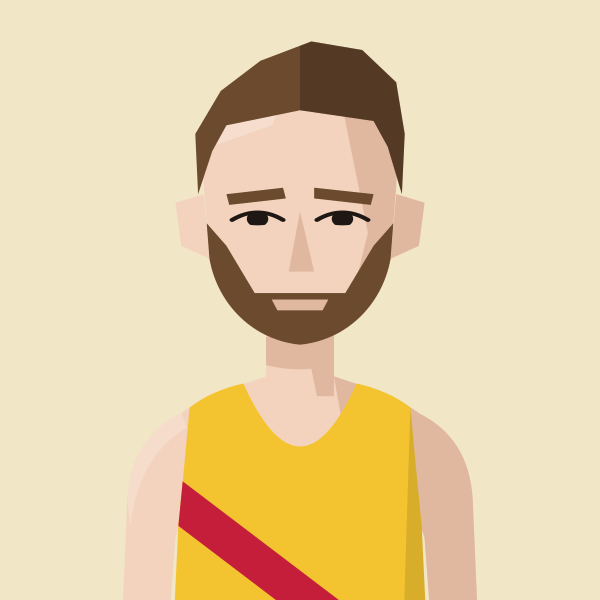
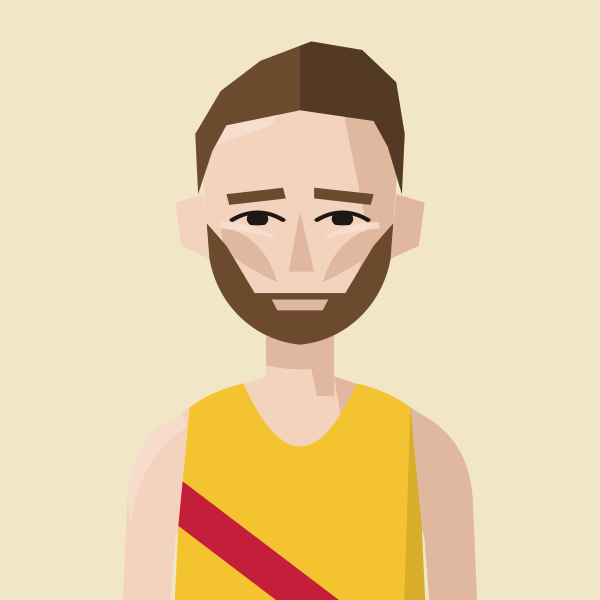
Portraits: gaunt cheeks for Fred Slemeck
Claude-Session: https://claude.ai/code/session_01MgmDWhFqnSSnP4iBLKXUZC

Changed region(s): [[0.36, 0.36, 0.48, 0.48], [0.54, 0.36, 0.63, 0.48]]

diff --git a/tools/gen_portraits.py b/tools/gen_portraits.py
@@ -99,7 +99,7 @@ FACIAL = {
     "stubble": '<path d="M66,112 L74,124 L84,146 L116,146 L126,124 L134,112 L134,180 L66,180 Z" opacity=".32"/>',
 }
 
-def figure(kit, mode="custom", skin=1, hair="crop", hair_colour="dark brown", facial=None, cap=None, shades=False, tattoos=False, beanie=None, mud=False, glasses=False, roots=None, stars=0, tag="f"):
+def figure(kit, mode="custom", skin=1, hair="crop", hair_colour="dark brown", facial=None, cap=None, shades=False, tattoos=False, beanie=None, mud=False, glasses=False, roots=None, stars=0, gaunt=False, tag="f"):
     primary, extras, ground = KITS[kit]
     line = mode == "outline"
     if mode == "custom": sk, dk, lt = SKIN[skin]
@@ -149,6 +149,8 @@ def figure(kit, mode="custom", skin=1, hair="crop", hair_colour="dark brown", fa
                f'<g fill="none" stroke="{ink}" stroke-width="1.8" stroke-linecap="round"><path d="M76,112 Q85,105 94,112"/><path d="M106,112 Q115,105 124,112"/></g>',
                f'<polygon points="100,108 105,136 96,136" fill="{dk}"/>',
                f'<path d="M89,151 L100,148 L111,151 Q100,158 89,151 Z" fill="{dk}"/>']
+        if gaunt:  # hollow cheeks under the cheekbones
+            hg.append(f'<g fill="{dk}"><path d="M72,115 Q87,119 92,141 Q82,135 73,126 Z"/><path d="M128,115 Q113,119 108,141 Q118,135 127,126 Z"/></g><g fill="{lt}" opacity=".8"><path d="M72,113 Q84,113 92,121 Q82,117 72,116 Z"/><path d="M128,113 Q116,113 108,121 Q118,117 128,116 Z"/></g>')
         if facial:
             if facial == "moustache":
                 hg.append(f'<g fill="{hc}">{FACIAL["moustache"]}</g>')
@@ -279,7 +281,7 @@ save("scott", figure("BEL", skin=1, hair="tousled", hair_colour="dark brown", fa
 save("mitchell", figure("BEL", skin=1, hair="quiff", hair_colour="ginger"))
 save("evans", figure("BEL", skin=1, hair="crop", hair_colour="#A8703F"))
 save("roberts", figure("HHH", skin=1, hair="curtains", hair_colour="bleached", roots="mid brown", mud=True))
-save("slemeck", figure("H/W", skin=1, hair="quiff", hair_colour="mid brown", facial="beard"))
+save("slemeck", figure("H/W", skin=1, hair="quiff", hair_colour="mid brown", facial="beard", gaunt=True))
 save("edgar", figure("BEL", skin=1, hair="buzzrecede", hair_colour="light brown", facial="moustache", shades=True))
 save("sommerville", figure("BEL", skin=1, hair="croprecede", hair_colour="dark brown"))
 save("mcdowell", figure("H/W", skin=1, hair=None))
